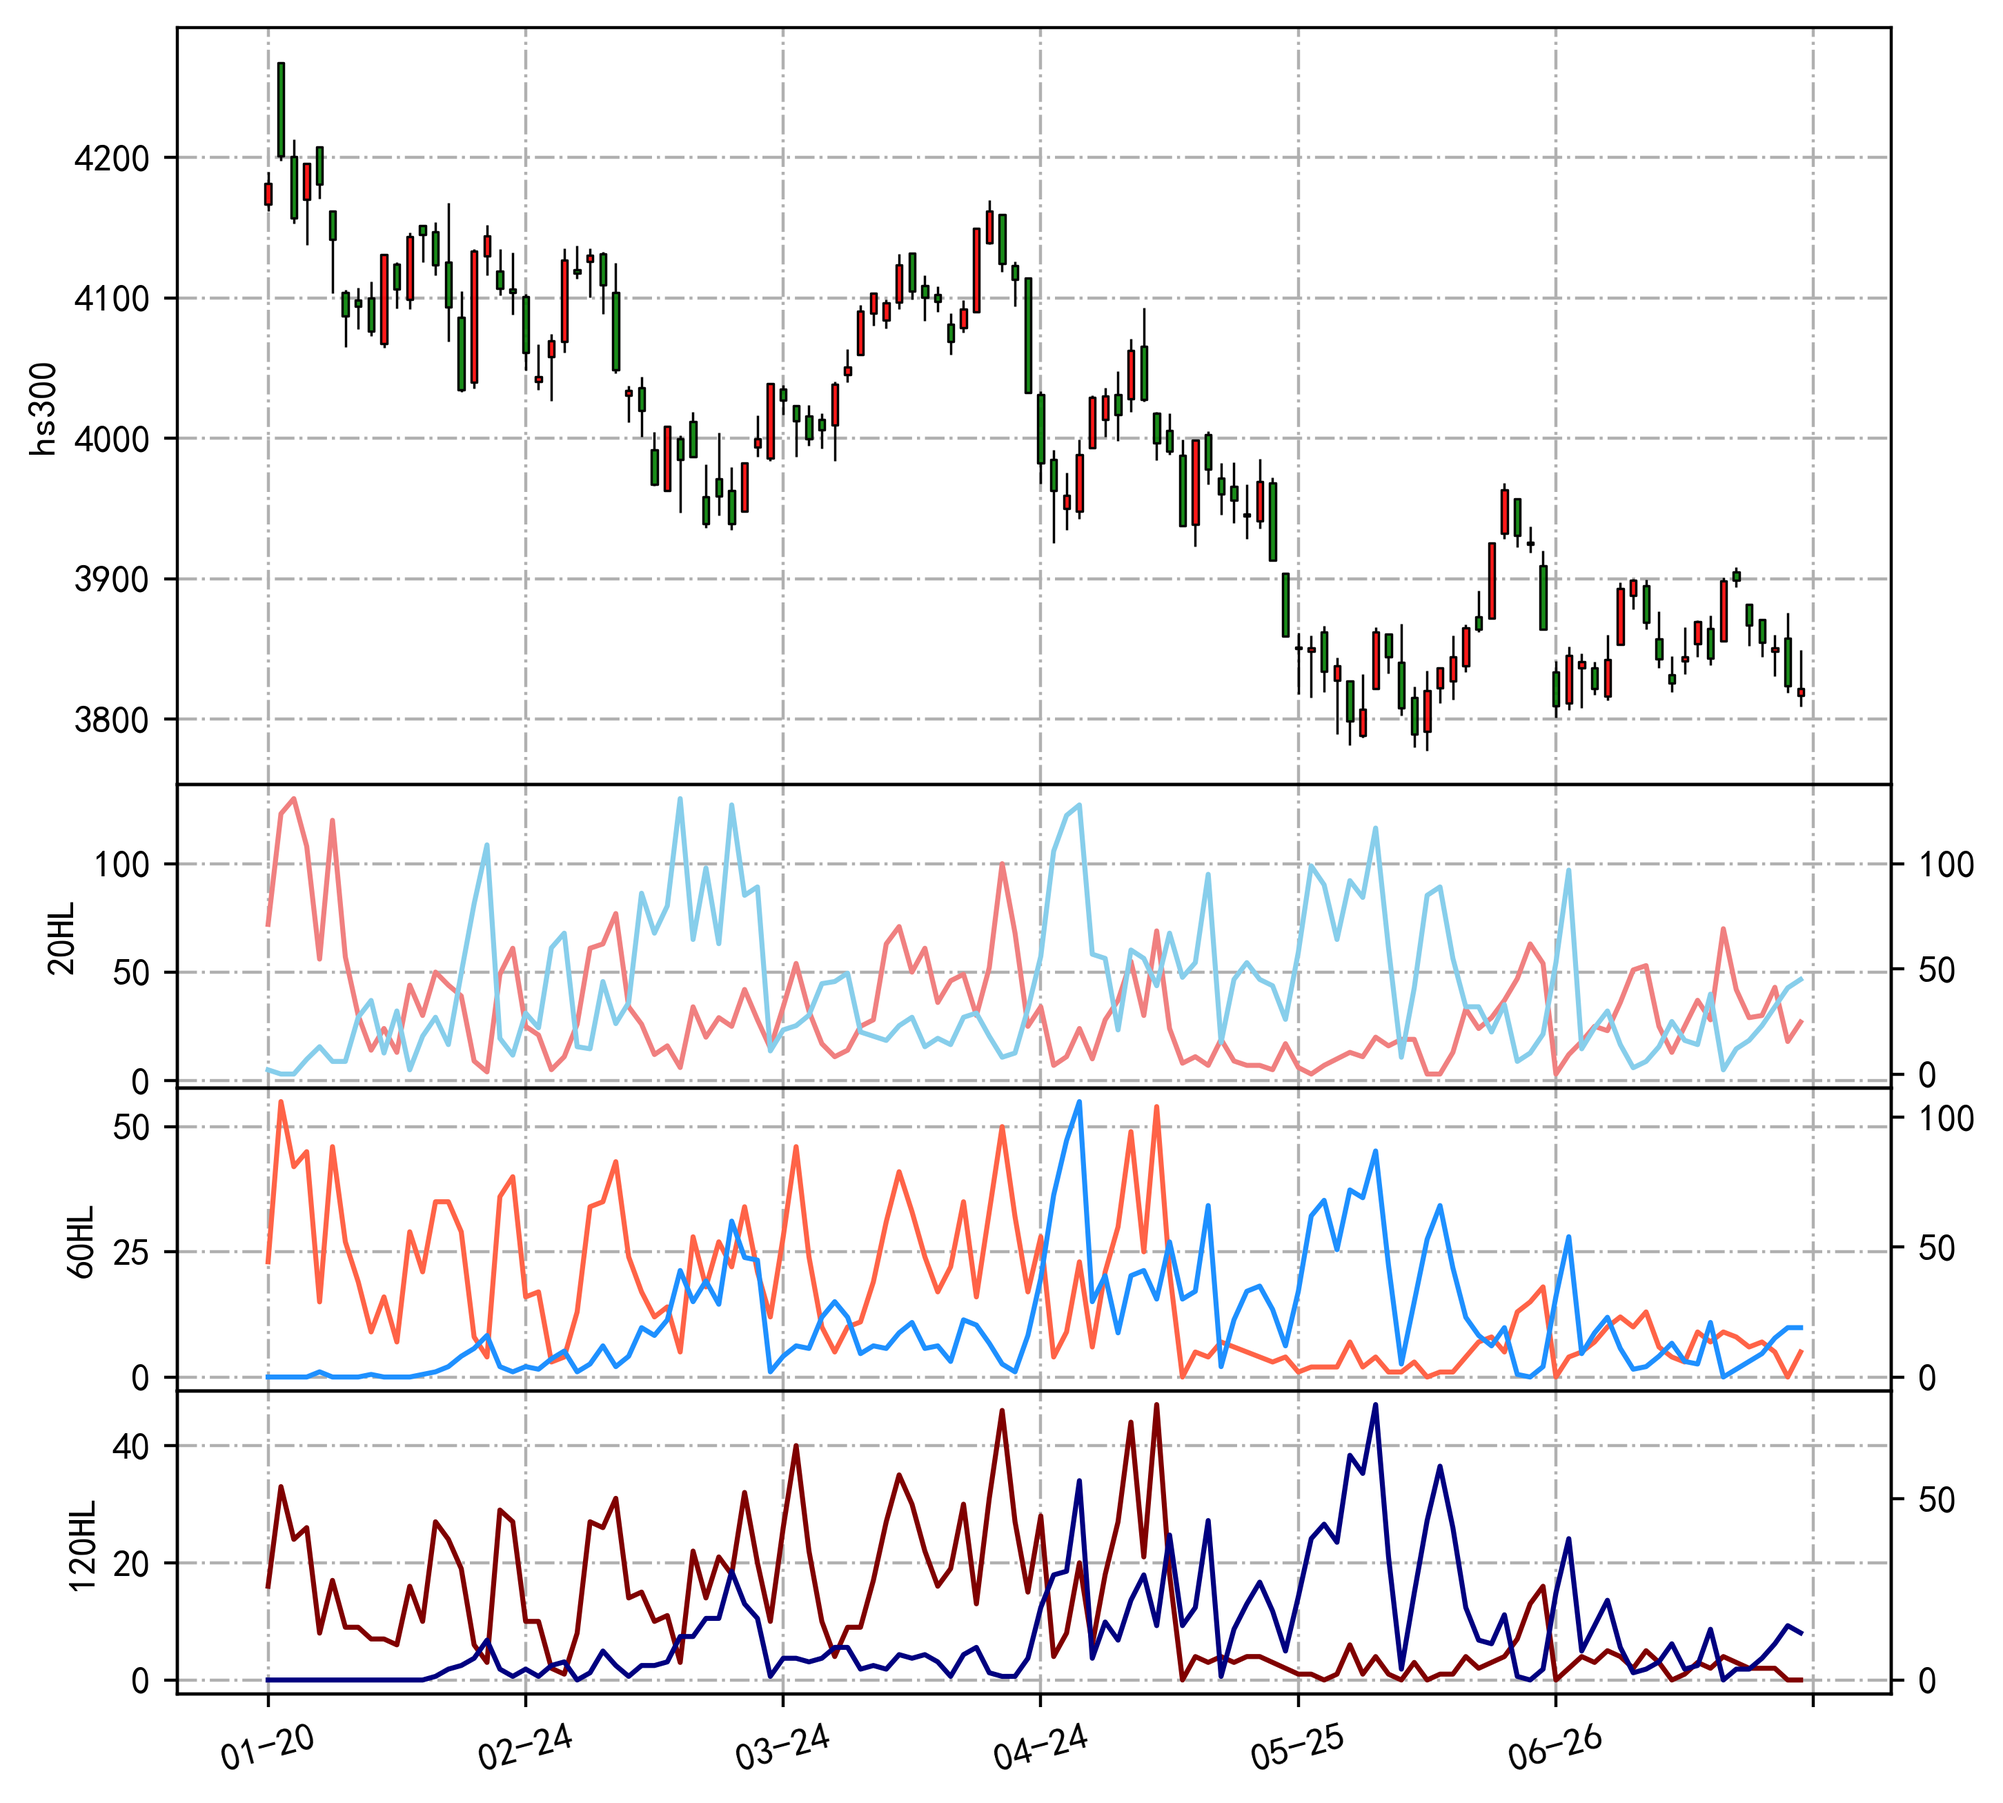
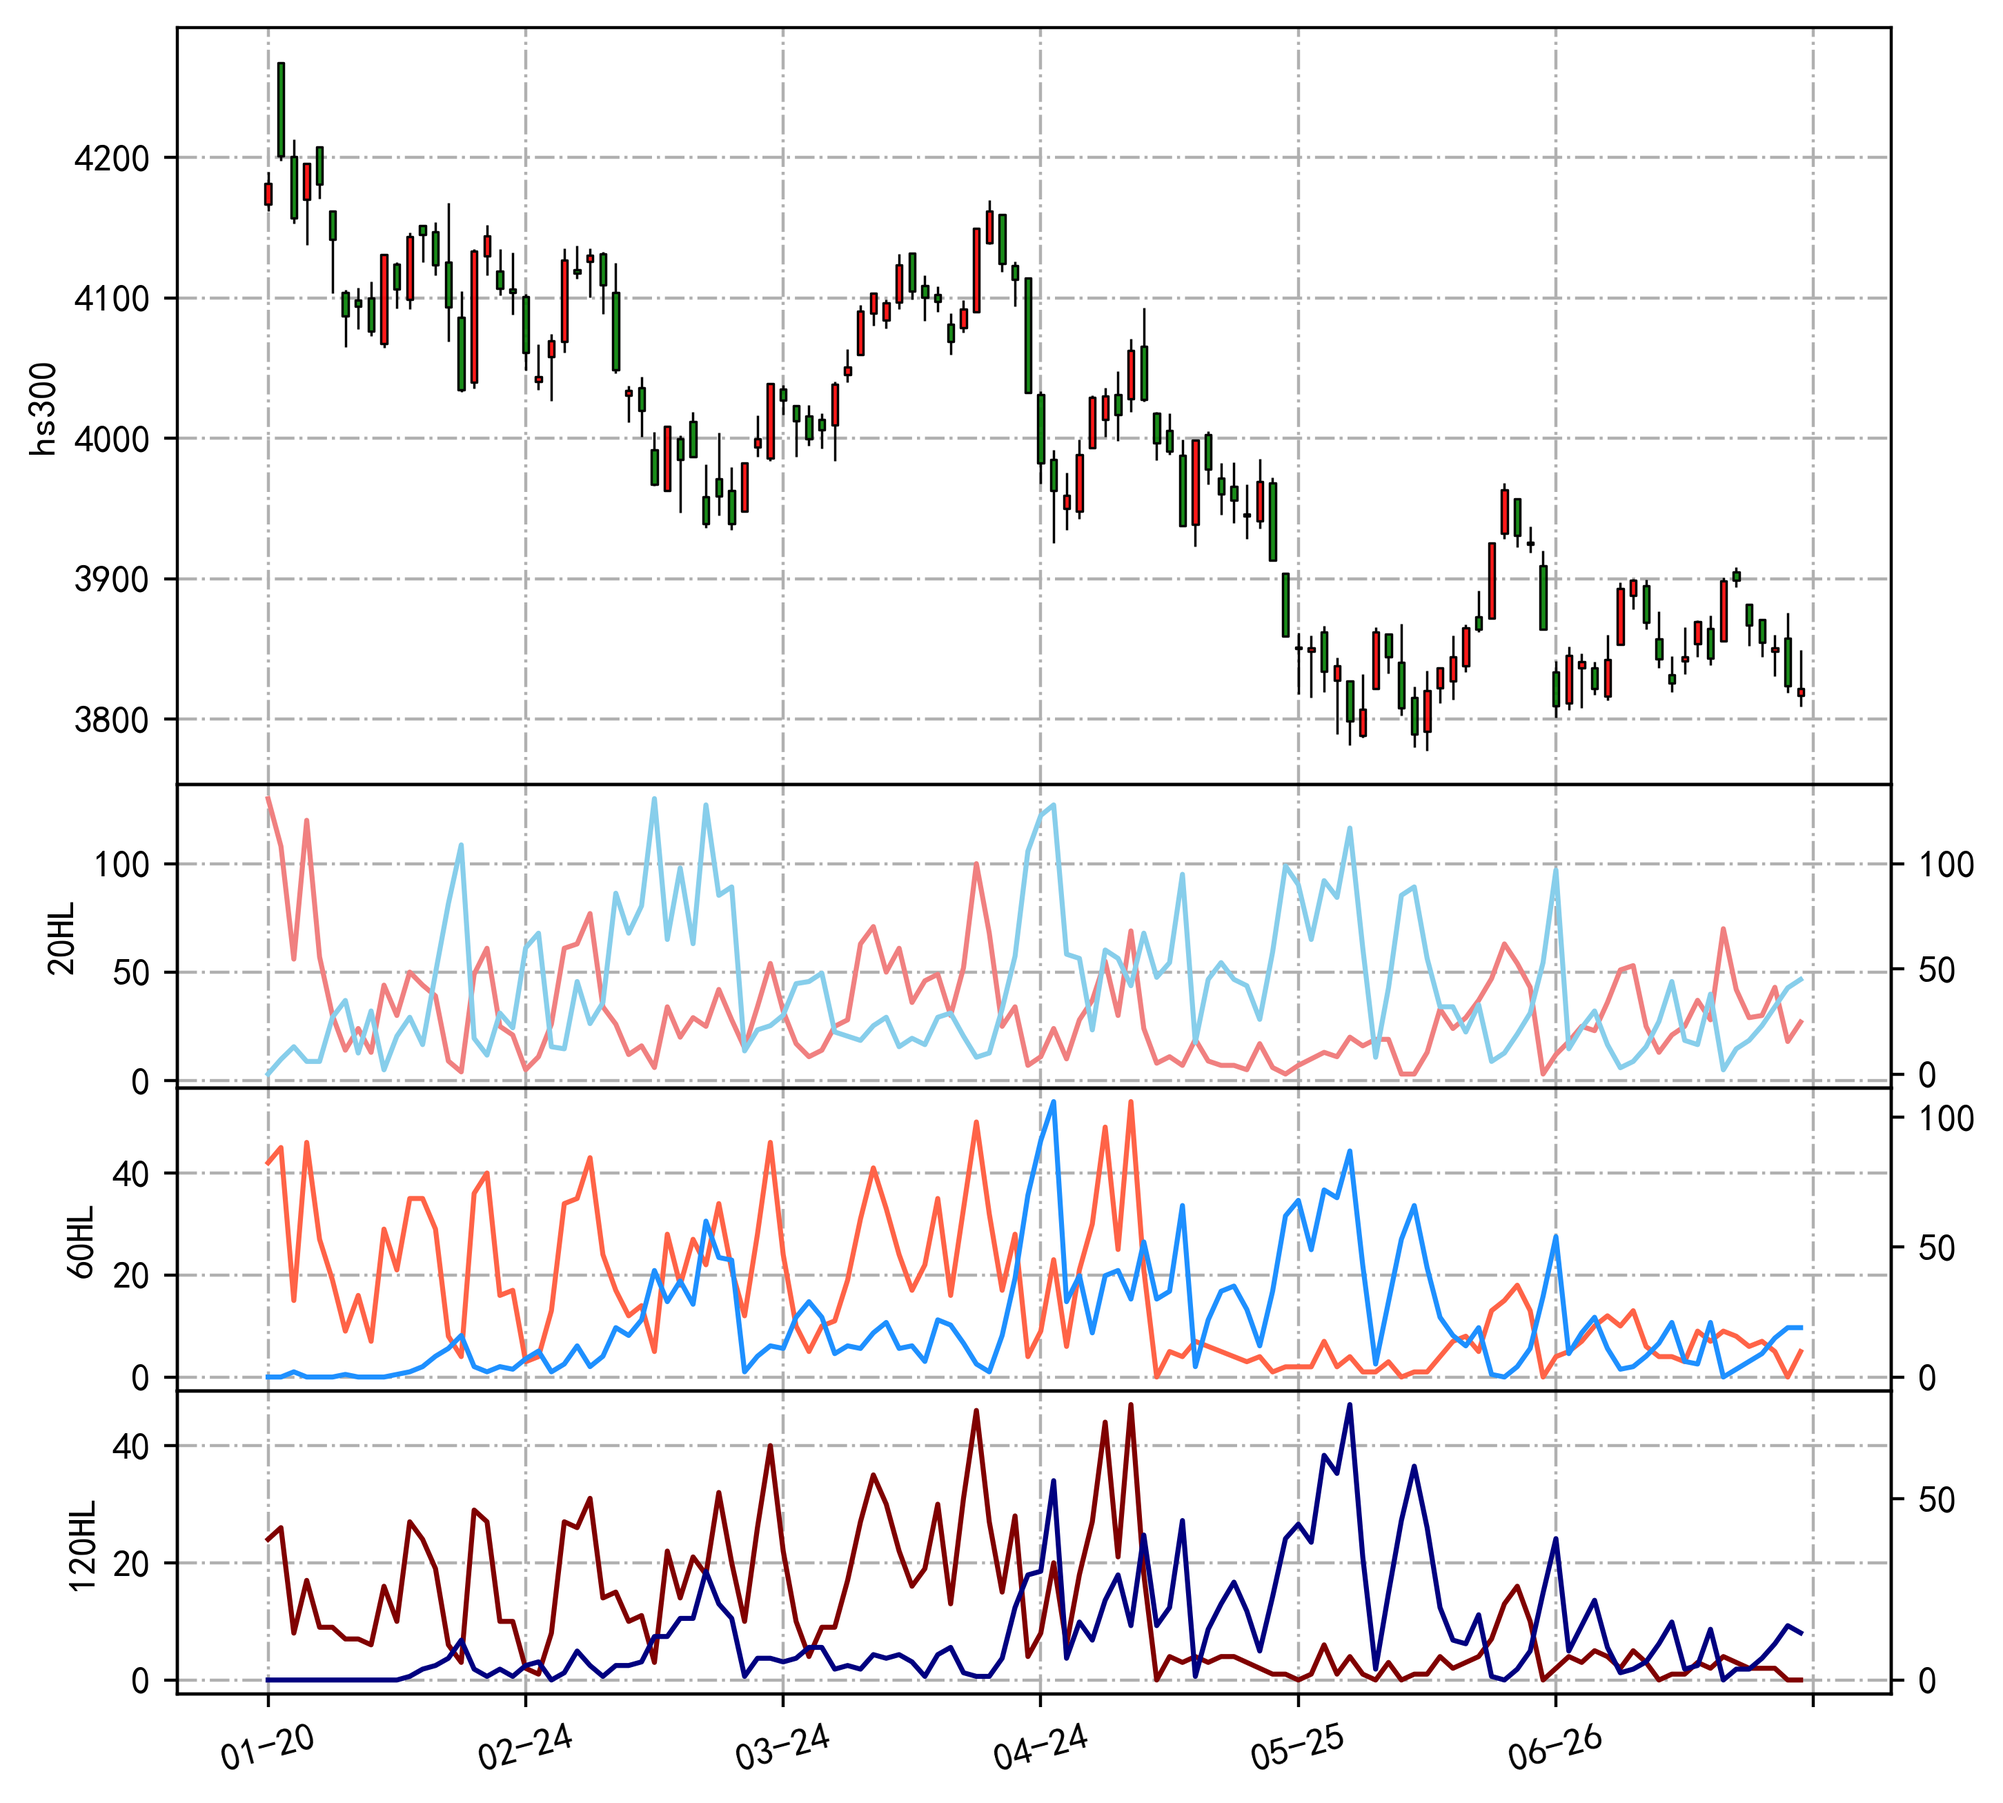
修改high_low_legu的错误

diff --git a/data_cper/high_low_stock.py b/data_cper/high_low_stock.py
@@ -204,7 +204,9 @@ def make_high_low_legu_plt(sym:str,fig_pth:str, hl_lg:pd.DataFrame, ylabs):
     index_cl = ak.stock_zh_index_daily_em(High_Low_Legu_Indexs[sym]).tail(120)
     index_cl.set_index('date',inplace=True)
     index_cl.index = pd.to_datetime(index_cl.index)
-    hl_near = hl_lg.tail(120)
+    hl_near = hl_lg[hl_lg.index.map(lambda x:x in index_cl.index)]
+    hl_near = hl_near.sort_index(axis=0)
+    # hl_near = hl_near.tail(120)
     cor_lst = ('lightcoral','skyblue','tomato','dodgerblue','maroon','navy')
     xadd_plt = [
         mpf.make_addplot(hl_near[w],panel=i//2+1,ylabel=ylabs[i],color=cor_lst[i]) for i,w in enumerate(hl_near.columns)
@@ -235,7 +237,7 @@ def doc_high_low_legu(cfg_file=''):
         img_pth = os.path.join('../data_save', config.get('Basic_Info','doc_img_pth'),'hl_legu_{}.png'.format(sym))
         hl_new = hl_legu_main_pd[hl_legu_main_pd.symbol==sym]
         del hl_new['symbol']
-        hl_new.sort_index(axis=0,inplace=True)
+        hl_new = hl_new.sort_index(axis=0)
         hl_new.index = pd.to_datetime(hl_new.index)
         hl_qua = make_high_low_legu_qua(hl_new, all_prds)
         hl_tl = make_high_low_legu_tline(sym,all_prds,sorted(hl_new.columns,key=_rerange_hl_columns),dict(hl_qua.loc[up_date]))
@@ -250,6 +252,6 @@ def doc_high_low_legu(cfg_file=''):
     return hl_legu_doc_dict
 
 if __name__ == '__main__':
-    append_high_low_legu_file()
-    # print(doc_high_low_legu())
+    # append_high_low_legu_file()
+    print(doc_high_low_legu())
     pass
